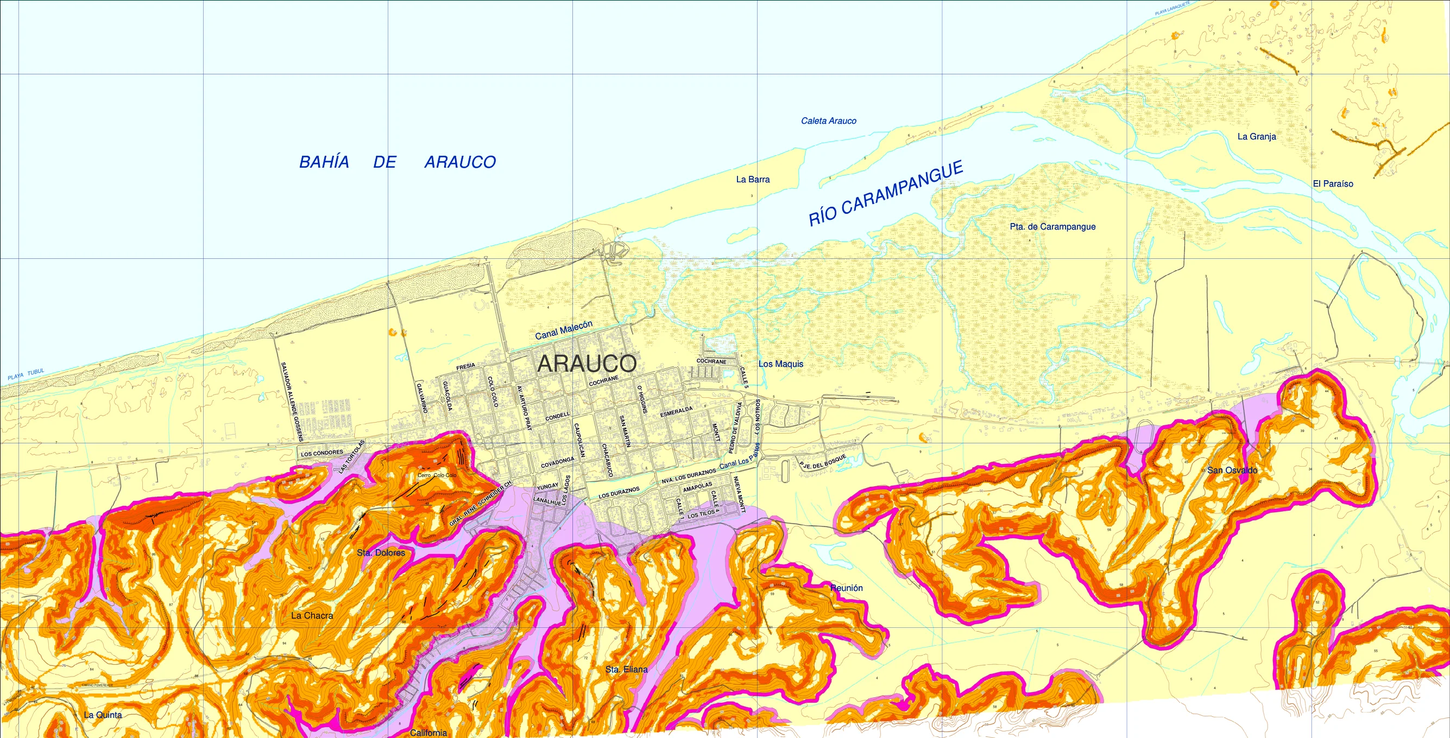
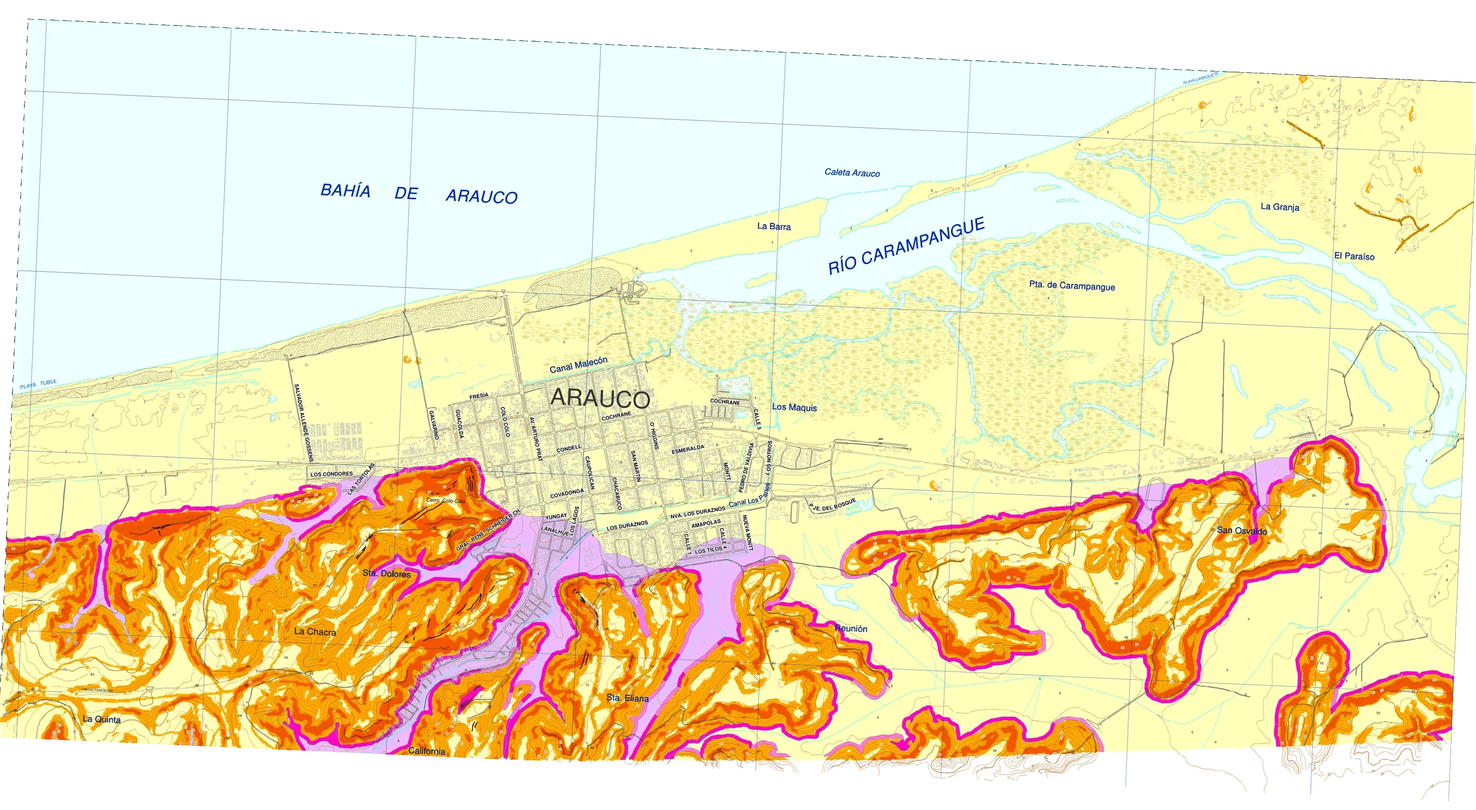
Peligros: georreferencia corregida de Copiapó hoja 3 (2 km E), Arauco y Concepción B (imagen UTM19 tratada como geográfica)
Auditoría con relieve SRTM de los 28 mapas traspasados (s19/s19b en mapas-sernageomin/13_auditoria_peligros):
re-auditoría después: 1.9 m (alta), 1.6 m (media), 2.7 m (media). ASSET_V=20261012c

diff --git a/index.html b/index.html
@@ -247,7 +247,7 @@
 <script>
 const CATS = [["geologia","🗺 Geología Básica"],["peligros","⚠ Peligros Geológicos"],["aplicada","🧪 Geología Aplicada"],
   ["historico","📜 Histórico"],["academico","🎓 Académicos"],["hillshade","🏔 Hillshade"]];
-const ASSET_V = '?v=20261012b';   // cache-bust de overlays/leyendas (subir al cambiar assets)
+const ASSET_V = '?v=20261012c';   // cache-bust de overlays/leyendas (subir al cambiar assets)
 const map = L.map('map',{center:[-33.9,-71.2],zoom:5});
 const bases = {
   "Satelital": L.tileLayer('https://server.arcgisonline.com/ArcGIS/rest/services/World_Imagery/MapServer/tile/{z}/{y}/{x}',{maxZoom:19,attribution:'Esri'}),
